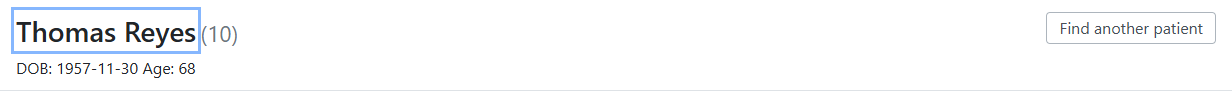
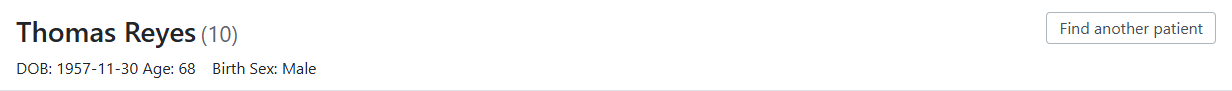
docs: patient list, recent patients and birth sex in the dashboard docs
PARITY.md: header sex row (matches the challenge, "Birth Sex" wording),
active status intentionally omitted, new section for the patient list and
recent patients (mirroring OpenEMR's Patient Finder, beyond the challenge),
re-captured header screenshots and the landing page. Migration doc and
dashboard README: what OpenEMR's paging/sort really supports, the bounded
allow-list, the ids-only recent-patients storage, test counts (431).

Changed region(s): [[0.1542, 0.6813, 0.2776, 0.8132], [0.0, 0.5495, 0.1851, 0.5934], [0.0, 0.0659, 0.1851, 0.1099]]

diff --git a/PATIENT_DASHBOARD_MIGRATION.md b/PATIENT_DASHBOARD_MIGRATION.md
@@ -18,10 +18,11 @@ Every number here was measured on the dev stack (`docker/development-easy`) on 2
 | Challenge requirement | Where |
 |---|---|
 | OAuth2 / OpenID Connect login | Mode A: authorization code + PKCE (S256) + client secret, run by the BFF (`dashboard/bff/src/app.ts`). Modes B/C: SMART EHR launch, code + PKCE as a public client (`dashboard/web/src/smart/launch.ts`). The id_token's `iss`, `aud`, `exp` and `nonce` are checked. No password grant, no refresh tokens |
-| Patient header | `PatientHeader.tsx` / `fhir/patient.ts`: name, `(pubpid)`, DOB and age (or age at death), following PHP's own age rules |
+| Patient header | `PatientHeader.tsx` / `fhir/patient.ts`: name, `(pubpid)`, DOB and age (or age at death), following PHP's own age rules, and sex ("Birth Sex: Female", from FHIR `Patient.gender`; see §4 for why active status is left out) |
 | Allergies, Problem List, Medications, Prescriptions, Care Team | `components/ClinicalCards.tsx`, one model per card in `web/src/fhir/*.ts`, all from live FHIR (plus one standard-API route for the medication list) |
 | One additional section | **Labs**: the PHP "Most recent lab data" card, rebuilt from FHIR `Observation?category=laboratory` (`fhir/lab.ts`) |
 | Feature parity | Card titles, order, empty texts, columns, sort orders, collapse defaults and the responsive layout follow the PHP page. The checklist is in `docs/dashboard-parity/PARITY.md` |
+| Beyond the challenge (mode A) | **Patient list** as the landing page, like OpenEMR's Patient Finder: 20 per page, sorted by last name, Previous/Next, the search box narrows it (`pages/PatientSearchPage.tsx`). **Recent patients** above it, like the Finder's recent list (`web/src/recent/`) |
 
 Nothing in OpenEMR's PHP core or database was changed. The only server-side OpenEMR code added is packaging inside our own Co-Pilot module:
 
@@ -33,7 +34,7 @@ Nothing in OpenEMR's PHP core or database was changed. The only server-side Open
 
 | Mode | How to open it | Login and data path |
 |---|---|---|
-| **A: standalone** | [`https://dashboard-production-cf2f.up.railway.app/`](https://dashboard-production-cf2f.up.railway.app/) (Railway service built from `dashboard/Dockerfile`); locally `npm run dev` in `dashboard/`, then http://localhost:5173 | The clinician signs in on OpenEMR's login page through the BFF (confidential client, `user/` scopes). They can search patients and switch between them in the app. The token never reaches the browser |
+| **A: standalone** | [`https://dashboard-production-cf2f.up.railway.app/`](https://dashboard-production-cf2f.up.railway.app/) (Railway service built from `dashboard/Dockerfile`); locally `npm run dev` in `dashboard/`, then http://localhost:5173 | The clinician signs in on OpenEMR's login page through the BFF (confidential client, `user/` scopes). They pick a patient from a paged patient list (or narrow it with the search box, or from their recent patients) and switch between them in the app. The token never reaches the browser |
 | **B: inside OpenEMR** | [`https://openemr-base-clean-production.up.railway.app/`](https://openemr-base-clean-production.up.railway.app/): open a chart → *Patient → Patient Dashboard (React)* | SMART EHR launch for the open chart. The same React build is served by OpenEMR's Apache from the module's `public/dashboard/`. A public client with `patient/` scopes; the token is held in memory only |
 | **C: SMART app** | The patient dashboard's *SMART Enabled Apps* card → *Launch* | Same as B |
 
@@ -93,7 +94,7 @@ An example: Physicians get 403 on `Practitioner` and `Organization`, so mode A s
 
 ### 3.2 Tests
 
-`npm test` runs **358 tests**: 142 for the BFF and 216 for the web app. They run in CI with no OpenEMR, network or secret: the BFF tests use a mock OpenEMR on a loopback port, and the web tests use MSW.
+`npm test` runs **431 tests**: 179 for the BFF and 252 for the web app. They run in CI with no OpenEMR, network or secret: the BFF tests use a mock OpenEMR on a loopback port, and the web tests use MSW.
 
 - **BFF**:
   - config validation: it refuses write scopes, `offline_access`, non-https issuers and short session secrets
@@ -108,7 +109,7 @@ An example: Physicians get 403 on `Practitioner` and `Organization`, so mode A s
   - the subject guard
   - both data sources
   - the SMART launch (origin checks, state expiry, token kept in memory)
-  - full search → patient → cards flows
+  - full list / search → patient → cards flows, paging, and the recent-patients list (including that storage holds patient ids only and works when storage is blocked)
   - axe-core accessibility checks on the rendered pages (`web/test/a11y.test.tsx`)
 - **Module (PHPUnit)**: the Co-Pilot module's suite covers the menu entry, the launch page's decisions and the start script.
 
@@ -132,13 +133,15 @@ The guard was written because of a measured bug: under a patient-context token, 
 | Where the access token lives | n/a (PHP session) | **server-side only**; the browser has an HttpOnly, SameSite=Lax, signed `__Host-` cookie | in a JavaScript closure: never in `localStorage` or `sessionStorage`, gone on reload |
 | Writes possible | yes (same page edits) | no: read-only scopes, and the BFF proxies GET only | no: read-only scopes |
 
-The BFF also narrows what it passes on. OpenEMR's `/api/patient/:puuid` returns the whole `patient_data` row, SSN included. The BFF answers only `{pid, uuid}`, the one mapping the medication route needs.
+The BFF also narrows what it passes on. OpenEMR's `/api/patient/:puuid` returns the whole `patient_data` row, SSN included. The BFF answers only `{pid, uuid}`, the one mapping the medication route needs. The patient list is always bounded: a Patient search without a name, DOB or MRN must carry `_count` (at most 50), and only `_count`, `_offset` and a fixed set of `_sort` values are accepted.
+
+The only thing mode A keeps in the browser about patients is the recent-patients list, and it holds **FHIR patient ids only** (never a name, DOB, MRN or other PHI), under a key derived from a SHA-256 hash of the user's `fhirUser`. Names are read live through the BFF each time the list is shown.
 
 ### 3.5 Accessibility
 
 We ran axe-core in Chrome with all rules, including colour contrast. Details are in `docs/dashboard-parity/PARITY.md`.
 
-- **Port: 0 violations** on the search page, on the patient page with every card expanded, and at phone width. The first run found two serious issues:
+- **Port: 0 violations** on the search page, on the patient page with every card expanded, at phone width, and (added later) on the patient-list landing page with the recent-patients list. The first run found two serious issues:
   - muted grey text below 4.5:1 contrast
   - wide tables that could not be scrolled from the keyboard on a phone
 
@@ -197,7 +200,7 @@ How to read the numbers:
    - enable it in *API Clients*
 
    The PHP page needs none of this.
-4. **Parity limited by what OpenEMR's FHIR exposes.** The full list is the gaps table in `dashboard/README.md` (G2–G24) and the row-by-row checklist in `docs/dashboard-parity/PARITY.md`. On the two compared patients, 23 of 41 rows match. The other 18 are 13 FHIR gaps and 5 design choices, all documented. The ones a clinician notices:
+4. **Parity limited by what OpenEMR's FHIR exposes.** The full list is the gaps table in `dashboard/README.md` (G2–G24) and the row-by-row checklist in `docs/dashboard-parity/PARITY.md`. On the two compared patients, 23 of 42 rows match. The other 19 are 13 FHIR gaps and 6 design choices (one is sex in the header, added for the challenge), all documented. The ones a clinician notices:
    - **Allergy severity (G4).** FHIR only has `criticality`, so "Moderate" shows as "Low Risk". Moderate-to-severe and worse show as "High Risk" and stay highlighted, erring on the safe side.
    - **Refills (G8).** OpenEMR always sends `numberOfRepeatsAllowed: 0`, so the port shows "—" rather than a wrong 0.
    - **Care-team names in mode A (G9).** Physicians get 403 on `Practitioner`/`Organization`, so names show as "Name not available (permission)". In modes B/C they resolve. Member status and note are not in FHIR at all (G11/G12), so inactive members are listed.
@@ -205,10 +208,12 @@ How to read the numbers:
      - the port shows result names ("Tests: …") where PHP shows the procedure name
      - it shows the report date where PHP shows the collection date
      - it shows no encounter number (G16/G17/G22–G24)
-   - **No "active" status in the header.** The challenge lists sex and active status, but the PHP header shows neither. OpenEMR's FHIR `Patient.active` is also hard-coded `true`, so showing it would claim something the data does not know. We matched the PHP header and documented the difference.
+   - **Sex is shown, active status is not.** The challenge lists both; the PHP header shows neither. The header now shows sex as "Birth Sex: Female": FHIR `Patient.gender` is filled from `patient_data.sex`, the field OpenEMR's Demographics card labels "Birth Sex". Active status stays out: OpenEMR's FHIR `Patient.active` is hard-coded `true`, so showing it would claim something the data does not know, and the PHP dashboard does not show it either.
    - **"No Known Allergies" is never shown.** FHIR cannot say whether the list was reviewed.
    - **Medications vs prescriptions in modes B/C.** The split needs the standard API's medication list, which refuses patient tokens. Modes B/C therefore show one clearly labelled combined card rather than guess a split from `intent`.
-5. **Collapse state is per browser, not per user.** PHP saves each card's expanded or collapsed state in the user's server-side settings. The read-only port keeps it in `localStorage`, under the same setting names.
+5. **Collapse state and recent patients are per browser, not per server-side user.** PHP saves each card's expanded or collapsed state in the user's server-side settings. The read-only port keeps it in `localStorage`, under the same setting names.
+
+   OpenEMR also keeps a per-user recent-patients list (`recent_patients`, updated when the PHP dashboard opens a chart and shown by the Patient Finder), but no REST or FHIR route exposes it and the port does not write to OpenEMR. The port therefore keeps its own list in the browser: at most 10 patients, most recent first, per signed-in user (the key is a hash of `fhirUser`, so it does not name the user). It stores **ids only**, so a shared or lost machine reveals no names, and a patient the user can no longer open simply disappears from the list. The cost: the list does not follow the user to another browser and is separate from OpenEMR's own list.
 6. **No deep links back into OpenEMR's tabbed UI.** OpenEMR has no URL that opens a given patient's edit screen inside its tab frame. The pencil links (when `VITE_OPENEMR_WEB_URL` is set) therefore open the PHP dashboard with `set_pid` in a new tab, and editing continues there. Linking straight to `stats_full.php` could open whichever patient the OpenEMR session last had.
 7. **Scope.** The photo, the encounter selector and the other PHP cards (vitals, notes, appointments, the Co-Pilot panel, and so on) are not ported. The challenge asks for the header, the five cards and one more section.
 
@@ -231,7 +236,7 @@ These are behaviours of this OpenEMR build (8.2.0-dev), measured on the dev stac
 - **Tests**: in `dashboard/`, `npm ci && npm run lint && npm run typecheck && npm test && npm run build && npm run build:smart`. This is the same as the CI job.
 - **Live, mode A**:
   1. Register the confidential client and put its values in `dashboard/.env`.
-  2. `npm run dev`, open http://localhost:5173, sign in as a clinician and search "Demo".
+  2. `npm run dev`, open http://localhost:5173 and sign in as a clinician. The landing page lists patients by last name; search "Demo" to narrow it; open two patients and they appear under *Recent patients*.
   3. Compare with the PHP dashboard for the same patient using `docs/dashboard-parity/PARITY.md`.
 - **Live, modes B/C**: `npm run build:smart`, register the SMART client, then *Patient → Patient Dashboard (React)*.
 - **Images**:

diff --git a/dashboard/README.md b/dashboard/README.md
@@ -13,7 +13,7 @@ Three hosting modes, one React app:
 
 | Mode | Where | Login | Patient |
 |---|---|---|---|
-| **A** standalone | own origin, served by the BFF | BFF, confidential client, `user/` scopes | in-app search and switching |
+| **A** standalone | own origin, served by the BFF | BFF, confidential client, `user/` scopes | patient list, search, recent patients, switching |
 | **B** inside OpenEMR | same origin, `/interface/modules/custom_modules/oe-module-copilot/public/dashboard/` | SMART EHR launch from the Patient menu entry "Patient Dashboard (React)", public client, `patient/` scopes | the open chart |
 | **C** SMART app | the same build, launched from the patient dashboard's *SMART Enabled Apps* card | same as B | the open chart |
 
@@ -79,9 +79,11 @@ Scopes are read-only, with no `offline_access`, so no refresh token is issued. A
 ## Web app
 
 - **Data layer**: TanStack Query hooks (`web/src/data/hooks.ts`) over the `DataSource` interface, typed with `@types/fhir` R4. Components receive the state as data (`idle` / `loading` / `error` / `empty` / `ready`, `web/src/data/queryView.ts`). Only transient failures (502/5xx, 504, network) are retried, twice; 400/401/403/404 never are. A 401 ends the session ("Your session has expired"), and the query cache is cleared whenever the user is signed out.
-- **Patient search** (`/dashboard`): name, date of birth and/or MRN, checked in the browser against the same patterns the BFF allow-lists. Criteria live in the URL (`/dashboard?name=Demo`), so Back returns to the results. The results table shows name, DOB, sex and MRN, and each name links to `/patient/:id`. Switching patients keeps the session. OpenEMR's `identifier` search also matches SSNs; the SSN is never displayed.
-- **Patient header** (`/patient/:id`): parity with OpenEMR's persistent patient bar (`patient_data_template.php`, `demographics.php` `setMyPatient`): `First Last (pubpid)`, then `DOB: <date> Age: <age>` or `DOB: <date> Age at death: <age>`. The MRN is the identifier with type code `PT`, chosen by code, never by position (OpenEMR emits the SSN identifier first). Age follows `PatientService::getPatientAge` (whole years above 24 full months, else `n month`) and age at death follows `oeFormatAge`. The bar is sticky while scrolling. Focus moves to the page heading after each navigation.
-- **Deliberate differences from the PHP bar**: sex and active status are not shown (the PHP bar shows neither; OpenEMR's FHIR `active` is hard-coded `true`). The photo, encounter controls and the close icon are not ported ("Find another patient" replaces the close icon). `age_display_format = 1` (`#y #m #d`) is not supported. For an age at death under 24 months the PHP prints `11months` (an operator-precedence slip); the port prints `11 months`.
+- **Patient list** (`/dashboard`, the landing page; like OpenEMR's Patient Finder): every patient the user can see, **20 per page**, sorted by last name then first and middle name (`_sort=family,given`), with Previous / Next and "Page N". The page lives in the URL (`?page=2`). The app asks for 21 rows (`_count=21&_offset=…`) and enables Next only when the 21st arrives: OpenEMR's Patient Bundle has only a `self` link and its `total` is the number of entries returned, so there is no overall count. After paging, focus moves to the new page's table. Measured on the dev stack: `_count`, `_offset` and `_sort` (`family`, `-family`, `family,given`, `birthdate`) all take effect on Patient searches; ties on the full name have no further tie-break.
+- **Patient search**: name, date of birth and/or MRN narrow the same list (same paging and sort), checked in the browser against the same patterns the BFF allow-lists. Criteria live in the URL (`/dashboard?name=Demo`), so Back returns to the results; an empty search (or *Show all patients*) returns to the whole list. The table shows name, DOB, sex and MRN (the `PT` identifier), and each name links to `/patient/:id`. Switching patients keeps the session. OpenEMR's `identifier` search also matches SSNs; the SSN and phone numbers are never displayed.
+- **Recent patients** (on the landing page, above the list; `web/src/recent/`): OpenEMR keeps a per-user list server-side (`recent_patients`, shown by the Patient Finder), but no REST or FHIR route exposes it. The app therefore keeps its own, in `localStorage` under `dash.recentPatients.v1.<SHA-256 of the user's fhirUser>`, holding **FHIR patient ids only** (never names, DOBs or other PHI): at most 10, most recent first, updated when a patient's page opens. Names, DOB and MRN are read live through the BFF; a patient that answers 404 or 403 is dropped silently (and from storage). *Clear* empties it. Every storage access is wrapped: with storage blocked, or no `fhirUser`, the list lives in memory for the session.
+- **Patient header** (`/patient/:id`): parity with OpenEMR's persistent patient bar (`patient_data_template.php`, `demographics.php` `setMyPatient`): `First Last (pubpid)`, then `DOB: <date> Age: <age>` or `DOB: <date> Age at death: <age>`, then **`Birth Sex: <Male | Female | Other | Unknown>`** from FHIR `Patient.gender` (asked for by the challenge; OpenEMR fills `gender` from `patient_data.sex`, which its Demographics card labels "Birth Sex"; left out when absent). The MRN is the identifier with type code `PT`, chosen by code, never by position (OpenEMR emits the SSN identifier first). Age follows `PatientService::getPatientAge` (whole years above 24 full months, else `n month`) and age at death follows `oeFormatAge`. The bar is sticky while scrolling. Focus moves to the page heading after each navigation.
+- **Deliberate differences from the PHP bar**: sex is shown (the PHP bar does not show it; the challenge asks for it). Active status is not shown: OpenEMR's FHIR `active` is hard-coded `true`, and the PHP dashboard does not show it. The photo, encounter controls and the close icon are not ported ("Find another patient" replaces the close icon). `age_display_format = 1` (`#y #m #d`) is not supported. For an age at death under 24 months the PHP prints `11months` (an operator-precedence slip); the port prints `11 months`.
 
 ## Clinical cards (C3, C4)
 
@@ -149,7 +151,7 @@ G-numbers refer to `DASHBOARD_ANALYSIS_A2_FHIR.md` §6; G21 is new in C3, G22–
   | BFF route | OpenEMR | Parameters |
   |---|---|---|
   | `/api/fhir/Patient/:id` | FHIR read | none |
-  | `/api/fhir/Patient` | FHIR search | `name`, `birthdate`, `identifier` (at least one) |
+  | `/api/fhir/Patient` | FHIR search | `name`, `birthdate`, `identifier`, `_count` (1–50), `_offset` (0–999999), `_sort` ∈ family, -family, family,given, -family,-given, birthdate, -birthdate. At least one of `name`, `birthdate`, `identifier`, `_count`: a list without criteria is always bounded |
   | `/api/fhir/AllergyIntolerance`, `MedicationRequest`, `CareTeam` | FHIR search | `patient` (required) |
   | `/api/fhir/Condition` | FHIR search | `patient` (required), `category` ∈ problem-list-item, encounter-diagnosis, health-concern |
   | `/api/fhir/Observation` | FHIR search | `patient` (required), `category=laboratory` (required) |
@@ -176,7 +178,7 @@ The same React app, built with `npm run build:smart`, runs on OpenEMR's own orig
 4. On return (`?code&state`, same URL) the `state` must match the stored one (single use, 10 minutes). The code goes to the token endpoint as a form POST with the verifier and no cookies. The patient comes from the token response's `patient`.
 5. Only the verifier, state and the two URLs are kept in `sessionStorage`, and only across the redirect. The **access token is kept in memory only** (a closure inside the data source): a reload or a new tab needs a new launch. The id_token is read only for `fhirUser`, for the "Signed in as" name.
 
-The patient is fixed to the launch context: there is no search, and the header says to change the chart in OpenEMR to see another patient. A 401 (the token lasts 1 h) or *Sign out* drops the token and the cached data and asks for a relaunch from the chart.
+The patient is fixed to the launch context: there is no patient list, search or recent-patients list (the app makes no Patient search), and the header says to change the chart in OpenEMR to see another patient. A 401 (the token lasts 1 h) or *Sign out* drops the token and the cached data and asks for a relaunch from the chart.
 
 Differences from mode A, all caused by the patient-context token:
 
@@ -185,7 +187,7 @@ Differences from mode A, all caused by the patient-context token:
 | Care Team member and facility names | "Name not available (permission)" for the Physicians group | resolved (`Practitioner`/`Organization` reads are allowed in patient context) |
 | Medications / Prescriptions | split with the standard API's medication list | OpenEMR's standard API answers 403 to patient tokens, so no request is made and one **"Medications and prescriptions (combined)"** card lists every current order, with the reason |
 | Edit links | with `VITE_OPENEMR_WEB_URL` | none: they need the numeric pid, which only the standard API gives (the user is in the chart already) |
-| Patient | search and switch | the launched chart |
+| Patient | list, search, recent patients, switch | the launched chart |
 
 The subject guard stays on: OpenEMR's lab search ignores the `patient` parameter under a patient token (Phase B), so every result is still checked against the launched patient.
 
@@ -273,6 +275,6 @@ The app ships inside the OpenEMR image (root `Dockerfile`), so it is already the
 
 ## Tests and quality checks
 
-- `npm test`: **358 tests**. BFF 142 (config validation, login/callback/state/nonce/PKCE, session cookie, allow-list and query validation, upstream error mapping, headers, logs) and web 216 (FHIR models per card, subject guard, date/age formatting, both data sources, SMART launch, search/patient/cards flows with MSW, axe-core on the rendered pages).
-- `web/test/a11y.test.tsx`: axe-core on the signed-out page, search results and the full patient page (jsdom; colour contrast is checked in a real browser instead).
+- `npm test`: **431 tests**. BFF 179 (config validation, login/callback/state/nonce/PKCE, session cookie, allow-list and query validation including the bounded patient list, upstream error mapping, headers, logs) and web 252 (FHIR models per card, subject guard, date/age formatting, both data sources, SMART launch, list/paging/search/recent-patients/patient/cards flows with MSW, recent-patients storage (ids only, per user, storage blocked), axe-core on the rendered pages).
+- `web/test/a11y.test.tsx`: axe-core on the signed-out page, search results, the landing page (list, pager, recent patients) and the full patient page (jsdom; colour contrast is checked in a real browser instead).
 - Parity evidence, the real-browser axe run, the keyboard walkthrough and the phone-width check: `docs/dashboard-parity/PARITY.md`.

diff --git a/docs/dashboard-parity/PARITY.md b/docs/dashboard-parity/PARITY.md
@@ -19,7 +19,8 @@ Status: **match** = same content (styling may differ). **gap G#** = a documented
 | Name + (pubpid) | Evelyn Demo (7) / Thomas Reyes (10) | same | match |
 | DOB + age | DOB: 1958-04-12 Age: 68 / DOB: 1957-11-30 Age: 68 | same | match |
 | Age at death (deceased patient) | `oeFormatAge` | same rule (unit-tested) | match. An age at death under 24 months prints `11 months`, where PHP prints `11months` |
-| Sex, active status | not shown | not shown | match. The challenge text lists both, but PHP shows neither, and OpenEMR's FHIR `active` is hard-coded `true` |
+| Sex | not in the bar; the Demographics card shows it as **Birth Sex** (`patient_data.sex`) | `Birth Sex: Female` / `Birth Sex: Male` (FHIR `Patient.gender`, which OpenEMR fills from `patient_data.sex`) | by design: matches the challenge, which asks for sex in the header; worded as OpenEMR's Demographics card. Re-captured 2026-09-27 (`pid*_header_port.png`) |
+| Active status | not shown | not shown | match, and intentionally omitted: the challenge lists it, but OpenEMR's FHIR `active` is hard-coded `true` for every patient and the PHP dashboard does not show it |
 | Photo, encounter selector, "Open Encounter" | shown | not ported | by design (not part of the summary cards; this app is read-only) |
 | Close icon (×) | closes the chart | "Find another patient" | by design (mode A has in-app search) |
 | Sticky while scrolling | yes (top frame) | yes | match |
@@ -90,21 +91,34 @@ Status: **match** = same content (styling may differ). **gap G#** = a documented
 
 ## Summary
 
-Across the two patients, the tables above have **41 rows: 23 match and 18 differ**. Of the 18, 13 are FHIR gaps and 5 are design choices. Each one is documented in the README, and no difference is unexplained. (A row counts as "differ" if any part of it differs.) The differences a clinician would notice first:
+Across the two patients, the tables above have **42 rows: 23 match and 19 differ**. Of the 19, 13 are FHIR gaps and 6 are design choices (the sixth: sex in the header, added for the challenge). The patient list and recent patients below are not counted: the PHP dashboard has no counterpart. Each one is documented in the README, and no difference is unexplained. (A row counts as "differ" if any part of it differs.) The differences a clinician would notice first:
 
 - the allergy severity wording (G4)
 - refills "—" (G8)
 - care-team names in mode A (G9)
 - the labs line (G16/G17)
 
+## Patient list and recent patients (mode A, beyond the challenge; `list_landing_port.png`)
+
+Added after the parity capture, on the same dev stack as `drdash` (2026-09-27). They mirror OpenEMR's **Patient Finder** (`interface/main/finder/dynamic_finder.php`) and its **recent patients** list; the challenge does not ask for either.
+
+| Feature | OpenEMR | Port | Status |
+|---|---|---|---|
+| Patient list without a search term | Patient Finder: paged list of all patients | landing page `/dashboard`: 20 per page, Previous / Next, "Page N", page in the URL | mirrors. Live: 14 synthetic patients, one page, sorted Demo … Walsh; `?page=2` says "No patients on this page." |
+| Sort | Finder's saved column order | last name, then first and middle name (`_sort=family,given`) | mirrors. OpenEMR honours `_count`, `_offset` and `_sort` on Patient searches (checked live with `_count=5`: pages 1 and 2 follow on; `-family,-given` and `birthdate` sort as expected). Ties on the full name have no further tie-break (OpenEMR's sort whitelist has no FHIR key for the uuid) |
+| Total / next page | Finder shows "x of N" | no total; "Showing patients 21–40" and Next enabled only when a 21st row came back | OpenEMR's Bundle has only a `self` link and `total` = the entries returned, so the overall count is unknown |
+| Columns | configurable (name, phone, SSN, DOB, …) | Name, DOB, Sex, MRN (`PT` identifier) | by design: never SSN, never phone |
+| Search box | Finder's column filters | the existing name / DOB / MRN search narrows the same list, with the same paging | mirrors |
+| Recent patients | per user, server-side (`recent_patients`, updated when the PHP dashboard opens a chart, default 20) | per user **in this browser** (hashed `fhirUser` key), **ids only**, max 10, most recent first, updated when a patient opens; names / DOB / MRN read live; gone or forbidden patients dropped silently; Clear button | by design: no REST or FHIR route exposes OpenEMR's list, and the app is read-only. Live: opening Evelyn Demo then Thomas Reyes listed Reyes, Demo; storage held the two uuids only; Clear removed the entry |
+
 ## Accessibility and layout (port)
 
 - **axe-core in a real browser** (Chrome, all rules including colour contrast):
-  - pages checked: patient search with results; patient page with every card expanded; phone width (390 px).
+  - pages checked: patient search with results; patient page with every card expanded; phone width (390 px); the patient-list landing page, with and without the recent-patients list (2026-09-27: 0 violations; at 390 px no horizontal page scroll).
   - result: **0 violations** after two fixes made in C6. The muted text colour was changed from `#6c757d` to `#5c636a` (it measured below 4.5:1 on striped rows and on the page background). The wide table wrappers became focusable regions, so they can be scrolled from the keyboard.
 - **PHP page for comparison** (`demographics.php?set_pid=7`, loaded as a top-level page): **34 serious or critical nodes in 7 rules** (`link-name` 17, `color-contrast` 11, `aria-required-parent` 2, `aria-hidden-focus`, `aria-valid-attr-value`, `html-has-lang`, `list`), plus 4 moderate rules.
-- **Unit test**: `dashboard/web/test/a11y.test.tsx` runs axe on the signed-out, search and patient pages in jsdom. jsdom cannot check colour contrast.
-- **Keyboard only**, mode A, every step passed:
+- **Unit test**: `dashboard/web/test/a11y.test.tsx` runs axe on the signed-out, search, landing (list + pager + recent patients) and patient pages in jsdom. jsdom cannot check colour contrast.
+- **Keyboard only**, mode A, every step passed (C6, before the patient list was added; tab counts have changed since). Paging with Previous / Next by keyboard, with focus moving to the new page's table, is covered by `web/test/PatientListFlow.test.tsx`; the dev stack has too few patients for a second page:
   1. Tab reaches the name field; type a name, Enter.
   2. Tab reaches the result link (7 tabs); Enter.
   3. Focus moves to the patient's name heading.
